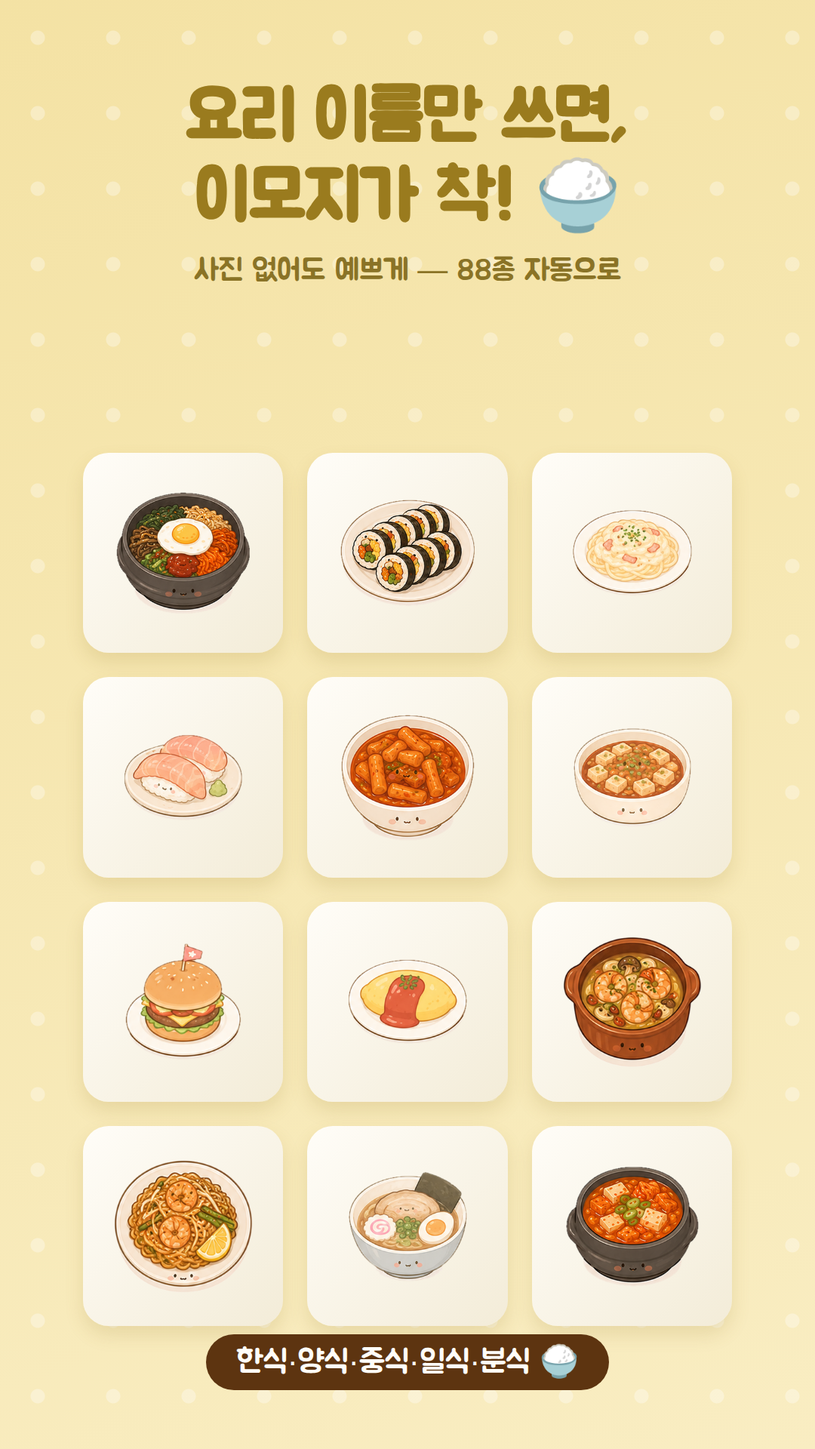
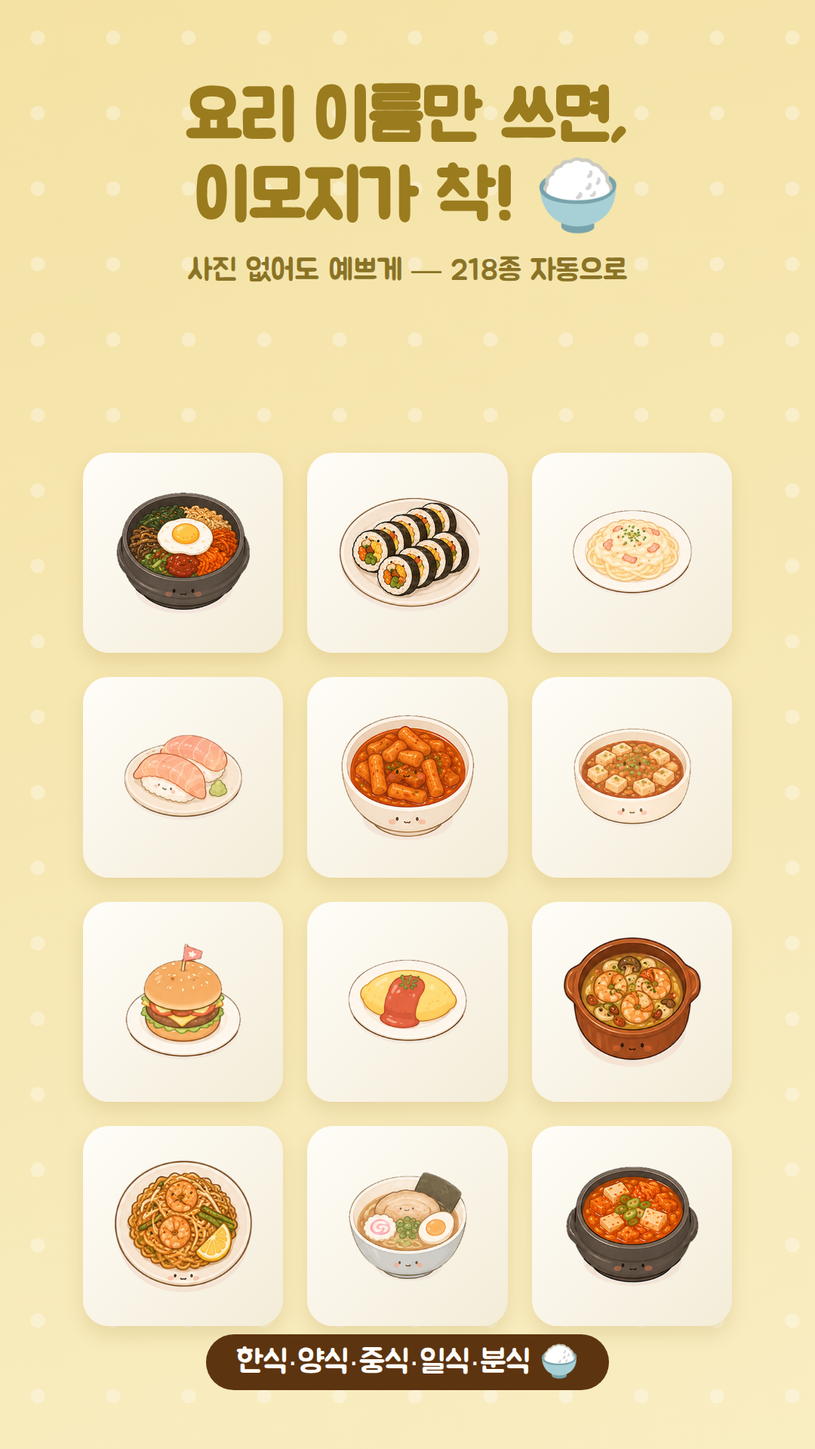
가져오기 정리 — 유튜브·인스타 링크 자동 읽기 제거, '준비 중'으로 정직하게 (v8.79)
창업자 제보: "유튜브 링크 복사 → 영어로 이상한 말만 복사됨. 숏츠·영상 다 같음",
"유튜브 → 링크공유 → 한끼, INBOX 저장만 됨".

원인: 유튜브 페이지는 자바스크립트로 그려지고 쿠키 동의 벽이 있어, 페이지 글자를
읽는 서비스(r.jina.ai)로는 영상 설명이 아니라 "Before you continue to YouTube…"
같은 영어 동의문이 온다. 그게 길이만 60자를 넘겨 그대로 재료·순서 칸에 박혔다.
제목만 가져오는 건 의미가 없다는 판단(창업자)에 따라 oEmbed도 쓰지 않는다.

- 유튜브 주소는 watch·youtu.be·shorts·live·embed·m. + si=·t=·list= 파라미터까지
  하나의 영상ID로 정리(youtubeId). "숏츠·영상 다 같음"의 원인이던 형태 차이 제거.
- 유튜브 링크는 아예 읽지 않는다(바깥 요청 0건) → 앱에선 "자동 정리 준비 중" 안내.
- 쿠키 동의·봇 검사·로그인 벽 글은 본문으로 인정하지 않는다(looksLikeJunk).
  껍데기 제목("YouTube"·"Just a moment…")도 거른다(looksLikeJunkTitle).
  블로그 링크가 동의문만 받아와도 재료칸에 영어가 안 박힌다.
- 공유받기: 링크를 받고도 읽지 않던 것을 블로그는 읽어 채우도록 연결.
  유튜브·인스타는 기다리게 하지 않고 바로가기로만 담는다.
- 문구 정정 — 안 되는 걸 된다고 적어두면 눌러보고 실망만 한다:
  · 가져오기 유튜브·인스타 = 자동 읽기 버튼 제거, "자동 정리 준비 중" 배지 + 안내
  · 홈 안내코치 "사진·인스타·유튜브에서 쏙" → "캡처·붙여넣기로 쏙"
  · AI 안내 "유튜브·블로그 링크" → "블로그 링크"(유튜브·인스타는 준비 중)
  · 스토어 등록물·기획노트·기능아카이브도 실제 동작에 맞춤
- 스토어 스크린샷 ④ "88종" → 실제 그림 아이콘 수 218종으로 재렌더.

검증: scripts/test-linkrules.mjs 신설(주소 정리 18케이스 + 쓰레기글·껍데기제목
거르기 + 유튜브 바깥요청 0건) → npm run smoke 앞단에 붙여 배포 게이트로.
가짜 네트워크로 가져오기·공유받기 흐름 재현: 동의문이 재료·순서로 안 들어감 확인.
SMOKE 통과, pageerror 0.

Claude-Session: https://claude.ai/code/session_01FxApkQkfqgWWNZhgiynRFA

Changed region(s): [[0.3972, 0.3438, 0.5806, 0.4375], [0.2444, 0.1562, 0.4889, 0.2188], [0.55, 0.1562, 0.7639, 0.2188]]

diff --git a/hankki/src/screens/ImportScreen.jsx b/hankki/src/screens/ImportScreen.jsx
@@ -14,10 +14,10 @@ import Portal from '../components/Portal'
 const OPTIONS = [
   // 제일 많이 쓰는 방법이라 맨 위
   { key: 'write', icon: 'photo', title: '사진 · 직접 작성하기', desc: '캡처는 재료·만드는 법 칸별로 읽어 채워요', color: '#8AA07A' },
-  { key: 'instagram', icon: 'instagram', title: 'Instagram', desc: '인스타그램 게시물 가져오기', color: '#C13584' },
-  { key: 'youtube', icon: 'youtube', title: 'YouTube', desc: '유튜브 영상 정보 가져오기', color: '#E33' },
+  { key: 'instagram', icon: 'instagram', title: 'Instagram', desc: '캡처해서 담기 (제일 정확)', color: '#C13584' },
+  { key: 'youtube', icon: 'youtube', title: 'YouTube', desc: '캡처·설명 붙여넣기로 담기', color: '#E33' },
   { key: 'text', icon: 'edit', title: '텍스트 붙여넣기', desc: '레시피 글을 붙여넣으면 자동 정리', color: '#B0895E' },
-  { key: 'link', icon: 'link', title: '링크 붙여넣기', desc: '웹사이트 주소를 붙여넣기', color: '#9B8B79' },
+  { key: 'link', icon: 'link', title: '링크 붙여넣기', desc: '블로그 글 읽어오기 · 바로가기 저장', color: '#9B8B79' },
 ]
 
 export default function ImportScreen() {
@@ -70,7 +70,8 @@ export default function ImportScreen() {
     nav.showToast('Inbox에 저장했어요 · 나중에 정리해요')
   }
 
-  // 링크 자동 읽기(베타) — 유튜브 설명·블로그 본문을 읽어 재료·순서까지 채운다.
+  // 링크 자동 읽기(베타) — 공개된 블로그 본문을 읽어 재료·순서까지 채운다.
+  // 유튜브·인스타는 읽지 않는다(로그인·동의 벽 → linkReader 에서 바로 null).
   // 아무리 오래 걸려도 25초 안에는 결과(또는 실패)를 돌려준다.
   const readLink = async () => {
     const u = url.trim()
@@ -224,7 +225,7 @@ export default function ImportScreen() {
           >
             <div style={{ flex: 1 }}>
               <div style={{ fontSize: 14, fontWeight: 600 }}>가져오기가 어렵다면?</div>
-              <div className="t-sub" style={{ marginTop: 3 }}>인스타·유튜브에서 한끼로 보내는 법 보기</div>
+              <div className="t-sub" style={{ marginTop: 3 }}>인스타·유튜브 레시피를 한끼로 옮기는 법 보기</div>
             </div>
             <div className="opt-ico" style={{ background: '#fff' }}>
               <Icon name="help" size={22} color="var(--sand)" />
@@ -261,7 +262,7 @@ export default function ImportScreen() {
           <div className="t-sub" style={{ marginTop: 6, marginBottom: 12, fontSize: 14 }}>
             {flow === 'instagram'
               ? '인스타는 캡션 글자를 복사할 수 없어요. 화면을 캡처해서 올리는 게 제일 정확해요.'
-              : '영상엔 글자가 없어요. 설명(더보기)을 붙여넣거나, 화면을 캡처해서 올려주세요.'}
+              : '영상엔 글자가 없어요. 설명(더보기)을 복사해 붙여넣거나, 화면을 캡처해서 올려주세요.'}
           </div>
 
           {/* 앱 바로 열기 — 링크 복사·캡처하러 갈 때 편하게 */}
@@ -311,18 +312,19 @@ export default function ImportScreen() {
             </div>
           </button>
 
-          {/* 3순위 — 링크 자동 읽기(베타) / 링크만 저장 */}
+          {/* 3순위 — 링크. 유튜브·인스타는 링크에서 레시피를 못 읽는다(둘 다 로그인·동의 벽).
+              예전엔 '자동으로 읽어오기' 버튼을 뒀다가 영어 안내문이 재료칸에 박혔다.
+              안 되는 걸 된다고 적으면 눌러보고 실망만 하니, 준비 중이라고 솔직히 적는다.
+              (창업자 2026-07-29 "제목만 가져오는 건 아무 의미가 없어") */}
           <div className="card" style={{ padding: 14, border: 'none' }}>
             <div style={{ display: 'flex', alignItems: 'center', gap: 6, fontSize: 13.5, fontWeight: 700, marginBottom: 8 }}>
-              <Icon name="link" size={16} color="var(--text)" stroke={1.8} /> 링크로 가져오기
+              <Icon name="link" size={16} color="var(--text)" stroke={1.8} /> 링크 저장
+              <span style={{ marginLeft: 'auto', fontSize: 11, fontWeight: 800, color: 'var(--text-sub)', background: 'var(--cream)', padding: '3px 9px', borderRadius: 999 }}>
+                자동 정리 준비 중
+              </span>
             </div>
-            <input value={url} onChange={(e) => setUrl(e.target.value)} placeholder={placeholderFor(flow)} inputMode="url" style={{ marginBottom: 8 }} />
-            <input value={title} onChange={(e) => setTitle(e.target.value)} placeholder="제목 (선택 · 비우면 자동)" style={{ marginBottom: 12 }} />
-            {flow === 'youtube' && (
-              <button className="btn-primary press" style={{ width: '100%', marginBottom: 8, opacity: url.trim() ? 1 : 0.5, display: 'inline-flex', alignItems: 'center', justifyContent: 'center', gap: 6 }} onClick={readLink} disabled={!url.trim() || linkBusy}>
-                {linkBusy ? '읽는 중…' : <><Icon name="sparkle" size={16} color="#fff" /> 설명란 자동으로 읽어오기 (베타)</>}
-              </button>
-            )}
+            <input value={url} onChange={(e) => setUrl(e.target.value)} placeholder={placeholderFor(flow)} inputMode="url" style={{ width: '100%', marginBottom: 8 }} />
+            <input value={title} onChange={(e) => setTitle(e.target.value)} placeholder="제목 (선택)" style={{ width: '100%', marginBottom: 12 }} />
             <button
               className="btn-ghost press"
               style={{ width: '100%', marginBottom: 8, display: 'inline-flex', alignItems: 'center', justifyContent: 'center', gap: 6 }}
@@ -338,12 +340,11 @@ export default function ImportScreen() {
             <button className="btn-ghost press" style={{ width: '100%' }} onClick={saveLink} disabled={!url.trim()}>
               링크만 Inbox에 저장 (바로가기)
             </button>
-            {flow === 'youtube' && (
-              <div className="t-sub" style={{ fontSize: 11.5, marginTop: 8, lineHeight: 1.5 }}>
-                <Icon name="alert" size={13} color="var(--sand)" style={{ verticalAlign: '-2px', marginRight: 3 }} />자동 읽기는 <b>영상 설명(더보기)에 레시피를 적어둔 영상만</b> 돼요.
-                설명에 없으면 <b>영상 보면서 직접 적기</b>나, 레시피 화면 <b>캡쳐 → 사진으로 가져오기</b>를 이용해 주세요.
-              </div>
-            )}
+            <div className="t-sub" style={{ fontSize: 11.5, marginTop: 8, lineHeight: 1.55 }}>
+              <Icon name="alert" size={13} color="var(--sand)" style={{ verticalAlign: '-2px', marginRight: 3 }} />
+              {flow === 'youtube' ? '유튜브(영상·숏츠)' : '인스타'} 링크에서 <b>재료·순서를 자동으로 가져오는 기능은 준비 중</b>이에요.
+              지금은 링크가 <b>바로가기(북마크)</b>로만 저장돼요. 내용까지 담으려면 위의 <b>캡처</b>나 <b>붙여넣기</b>를 써주세요.
+            </div>
           </div>
 
           <div className="t-sub" style={{ fontSize: 12, lineHeight: 1.6, marginTop: 14, textAlign: 'center' }}>
@@ -420,7 +421,7 @@ export default function ImportScreen() {
               <div className="card" style={{ padding: '4px 2px', background: 'var(--cream)', border: 'none' }}>
                 {[
                   ['camera', '캡처 사진 인식', '레시피 화면을 캡처만 하면 재료·순서를 칸칸이 자동으로 채워요.'],
-                  ['link', '유튜브·블로그 링크 (베타)', '링크를 붙여넣으면 글·설명을 읽어 정리해요. 공개된 글만 돼요.'],
+                  ['link', '블로그 링크 (베타)', '공개된 블로그 글은 붙여넣으면 읽어서 정리해요. 유튜브·인스타는 준비 중이에요.'],
                   ['clock', '옮겨적기 끝', '손으로 하나하나 타이핑할 필요 없이 몇 초면 완성.'],
                   ['pen', '언제든 손보기', 'AI가 정리한 결과는 마음대로 고치고 다듬을 수 있어요.'],
                 ].map(([ic, t, b]) => (

diff --git a/hankki/src/linkReader.js b/hankki/src/linkReader.js
@@ -12,6 +12,78 @@ function fetchWithTimeout(url, opts = {}) {
   return fetch(url, { ...opts, signal: ctrl.signal }).finally(() => clearTimeout(t))
 }
 
+// ── 유튜브 주소 ─────────────────────────────────────────────────────────
+// watch?v= · youtu.be/ · /shorts/ · /live/ · /embed/ · m.youtube.com · 뒤에 붙는
+// si=·t=·list= 같은 파라미터까지 전부 같은 영상ID로 정리한다.
+// (창업자 제보 "숏츠, 영상 다 같음" — 형태가 달라도 결과가 똑같이 이상했다)
+export function youtubeId(raw = '') {
+  const s = String(raw).trim()
+  if (!s) return ''
+  let u
+  try {
+    u = new URL(/^https?:\/\//i.test(s) ? s : 'https://' + s)
+  } catch {
+    return ''
+  }
+  const host = u.hostname.replace(/^(www|m)\./, '')
+  const ok = (id) => (/^[\w-]{8,20}$/.test(id || '') ? id : '')
+  if (host === 'youtu.be') return ok(u.pathname.slice(1).split('/')[0])
+  if (host !== 'youtube.com' && host !== 'youtube-nocookie.com') return ''
+  if (u.pathname === '/watch') return ok(u.searchParams.get('v'))
+  const m = u.pathname.match(/^\/(?:shorts|live|embed|v)\/([^/?#]+)/)
+  return m ? ok(m[1]) : ''
+}
+
+export function isYouTube(url) {
+  return !!youtubeId(url)
+}
+
+// ── 본문이 아닌 글 걸러내기 ─────────────────────────────────────────────
+// 쿠키 동의·로그인 벽·봇 검사 페이지는 글자 수만 많고 내용은 없다. 예전엔 길이만 보고
+// 통과시켜서 "Before you continue to YouTube…" 같은 영어 안내문이 그대로 재료·순서
+// 칸에 박혔다(창업자 제보 "영어로 이상한 말만 복사됨").
+const JUNK_MARKS = [
+  'before you continue',
+  'we use cookies',
+  'cookies and data to',
+  'sign in to confirm',
+  'accept all',
+  'reject all',
+  'enable javascript',
+  'javascript is disabled',
+  'verify you are human',
+  'just a moment',
+  'checking your browser',
+  'access denied',
+  'captcha',
+  '자동 등록 방지',
+  '로그인이 필요',
+]
+export function looksLikeJunk(text = '') {
+  const t = String(text)
+  if (!t.trim()) return true
+  const low = t.toLowerCase()
+  if (JUNK_MARKS.some((k) => low.includes(k))) return true
+  // 한글이 거의 없는 글은, 레시피 낱말이라도 있어야 본문으로 인정한다.
+  // (영어 레시피 블로그는 ingredients·tbsp 같은 낱말로 통과된다)
+  const hangul = (t.match(/[가-힣]/g) || []).length
+  if (hangul < t.length * 0.02) {
+    return !/(ingredient|instruction|direction|recipe|preheat|tbsp|tsp|\bcups?\b|minutes)/i.test(t)
+  }
+  return false
+}
+
+// 제목도 같이 걸러야 한다. 동의문 페이지의 제목은 "YouTube"·"Just a moment…" 같은 껍데기라
+// 그대로 저장하면 Inbox에 "YouTube"라는 레시피가 쌓인다(실제로 그렇게 저장됐다).
+const JUNK_TITLES = ['youtube', 'instagram', 'error', 'sign in', 'log in', '로그인', 'redirecting']
+export function looksLikeJunkTitle(t = '') {
+  const s = String(t).trim()
+  if (!s) return true
+  const low = s.toLowerCase().replace(/[.…\s]+$/, '')
+  if (JUNK_TITLES.includes(low)) return true
+  return JUNK_MARKS.some((k) => low.includes(k)) || /^just a moment|^attention required/.test(low)
+}
+
 // 네이버 블로그는 본문이 iframe 안에 있어 원 주소로는 읽기 어렵다.
 // blog.naver.com/아이디/글번호 → 본문이 바로 나오는 PostView·모바일 주소로 바꿔 시도한다.
 function candidateUrls(raw) {
@@ -41,6 +113,12 @@ function parseJina(text) {
 }
 
 export async function fetchLinkRecipe(rawUrl) {
+  // 유튜브는 읽지 않는다. 페이지가 자바스크립트로 그려지고 동의 벽이 있어 읽기 서비스로는
+  // 영상 설명이 아니라 영어 안내문만 온다(창업자 제보 "영어로 이상한 말만 복사됨").
+  // 제목만 가져오는 건 의미가 없다고 판단해(창업자 2026-07-29) oEmbed도 쓰지 않는다.
+  // 제대로 하려면 서버 + YouTube Data API 가 필요 → 앱에선 '준비 중'으로 안내한다.
+  if (isYouTube(rawUrl)) return null
+
   const urls = candidateUrls(rawUrl)
   let titleOnly = ''
 
@@ -53,10 +131,10 @@ export async function fetchLinkRecipe(rawUrl) {
       if (!res.ok) continue
       const raw = await res.text()
       const { title, body } = parseJina(raw)
-      if (body && body.replace(/\s/g, '').length > 60) {
+      if (body && body.replace(/\s/g, '').length > 60 && !looksLikeJunk(body)) {
         return { title, text: body, full: true }
       }
-      if (title && !titleOnly) titleOnly = title
+      if (title && !titleOnly && !looksLikeJunkTitle(title)) titleOnly = title
     } catch {
       /* 다음 후보로 */
     }
@@ -77,8 +155,8 @@ export async function fetchLinkRecipe(rawUrl) {
         doc.body
       const text = (el?.textContent || '').replace(/\n{3,}/g, '\n\n').trim()
       const title = (doc.querySelector('.se-title-text')?.textContent || doc.title || '').trim()
-      if (text.replace(/\s/g, '').length > 80) return { title, text, full: true }
-      if (title && !titleOnly) titleOnly = title
+      if (text.replace(/\s/g, '').length > 80 && !looksLikeJunk(text)) return { title, text, full: true }
+      if (title && !titleOnly && !looksLikeJunkTitle(title)) titleOnly = title
     } catch {
       /* 다음 후보로 */
     }
@@ -89,7 +167,7 @@ export async function fetchLinkRecipe(rawUrl) {
     const res = await fetchWithTimeout('https://noembed.com/embed?url=' + encodeURIComponent(rawUrl))
     if (res.ok) {
       const j = await res.json()
-      if (j && j.title && !j.error) return { title: String(j.title), text: '', full: false }
+      if (j && j.title && !j.error && !looksLikeJunkTitle(j.title)) return { title: String(j.title).trim(), text: '', full: false }
     }
   } catch {
     /* noop */

diff --git a/hankki/src/App.jsx b/hankki/src/App.jsx
@@ -4,6 +4,7 @@ import { consumeSharedIntake, detectSource, firstUrl, captionFrom, firstLine } f
 import { makeInboxRecipe } from './screens/ImportScreen'
 import { ocrImage } from './ocr'
 import { parseRecipeText } from './parseRecipe'
+import { fetchLinkRecipe } from './linkReader'
 import { guessCategory } from './utils'
 import BottomNav from './components/BottomNav'
 import TimerBar from './components/TimerBar'
@@ -259,7 +260,11 @@ export default function App() {
       // 소비해 다음 back 이 앱 종료로 샜다. (공유로 앱을 처음 열었을 때 경로)
       try { history.pushState({ hankki: 1 }, '') } catch { /* noop */ }
       showToast(
-        data.imageDataUrl ? '사진을 담았어요 · 글자 읽는 중…' : '공유한 레시피를 Inbox에 담았어요'
+        data.imageDataUrl
+          ? '사진을 담았어요 · 글자 읽는 중…'
+          : link && source !== 'youtube' && source !== 'instagram'
+            ? '공유한 링크를 담았어요 · 읽는 중…'
+            : '공유한 레시피를 Inbox에 담았어요'
       )
       if (typeof history !== 'undefined' && location.search) {
         history.replaceState({ hankki: 1 }, '', location.pathname) // URL 만 정리, 트랩 표식은 유지
@@ -276,7 +281,43 @@ export default function App() {
           category: guessCategory((r.title || '') + ' ' + r.memo),
         })
         showToast('사진에서 글자를 읽어 채웠어요')
+        return
       }
+
+      // 공유로 들어온 링크는 예전엔 주소만 Inbox에 눕혀두고 끝이었다
+      // (창업자 제보 "유튜브 → 링크공유 → 한끼, INBOX 저장만 됨").
+      // 이제 붙여넣기 흐름과 똑같이 읽어서 제목·재료·순서까지 채운다.
+      // 유튜브·인스타는 읽어봐야 안 되는 게 확실하니(로그인·동의 벽) 기다리게 하지 않는다 —
+      // 링크는 바로가기로 담기고 끝. 자동 정리는 '준비 중'으로 안내한다.
+      if (!link || source === 'youtube' || source === 'instagram') return
+      if (parsed && (parsed.ingredients.length || parsed.steps.length)) return
+      const read = await Promise.race([
+        fetchLinkRecipe(link).catch(() => null),
+        new Promise((res) => setTimeout(() => res(null), 25000)),
+      ])
+      if (cancelled || !read) {
+        showToast('링크는 담았어요 · 내용은 자동으로 읽지 못했어요')
+        return
+      }
+      const patch = {}
+      // 읽어온 제목을 우선한다. 이 레코드는 방금 자동으로 만들어진 것이라 사용자가 앱 안에서
+      // 적은 글자가 없다 — 임시 제목은 공유 문구 첫 줄("이거 봐봐" 같은 인사말)일 때가 많아서
+      // 영상·글의 실제 제목이 훨씬 낫다. 쓰레기 제목은 linkReader 쪽에서 이미 걸러져 온다.
+      if (read.title) patch.title = read.title
+      if (read.full && read.text) {
+        const p = parseRecipeText(read.text, { fromOcr: true })
+        if (p.ingredients.length) patch.ingredients = p.ingredients
+        if (p.steps.length) patch.steps = p.steps
+        if (!patch.title && p.title) patch.title = p.title
+      }
+      if (patch.title === title) delete patch.title
+      if (!Object.keys(patch).length) return
+      store.updateRecipe(rec.id, patch)
+      showToast(
+        patch.ingredients || patch.steps
+          ? '링크에서 레시피를 읽어 채웠어요'
+          : '영상 제목을 채웠어요 · 설명은 붙여넣어 주세요'
+      )
     })
     return () => {
       cancelled = true

diff --git a/hankki/src/screens/HomeScreen.jsx b/hankki/src/screens/HomeScreen.jsx
@@ -22,7 +22,7 @@ import { needsOnboarding } from '../components/Onboarding'
 // 첫 스텝을 '되는 기능'(가져오기·오늘 뭐 해먹지)으로, 곧 출시 미리보기는 맨 뒤에 살짝.
 const HOME_COACH_KEY = 'hankki:coach:home2' // 2026-07-26: 장보기·레꾸자랑 탭 안내 추가하며 키 올림(기존 테스터도 개선된 가이드 1회 노출)
 const HOME_COACH_STEPS = [
-  { sel: '[data-coach="import"]', img: uiHandPoint, label: '레시피 가져오기', desc: '사진·인스타·유튜브에서 레시피를 쏙 담아요 · 여기서 시작!' },
+  { sel: '[data-coach="import"]', img: uiHandPoint, label: '레시피 가져오기', desc: '캡처·붙여넣기로 레시피를 쏙 담아요 · 여기서 시작!' },
   { sel: '[data-coach="today"]', img: uiGomThumb, label: '오늘 뭐 해먹지?', desc: '냉장고 재료로 만들 수 있는 요리를 추천해요' },
   { sel: '[data-coach="nav-shop"]', img: uiGomShop, label: '장보기 · 쇼핑몰', desc: '18년차 주부가 엄선한 식재료를 담아 바로 사러 가고 · 냉장고 유통기한도 챙겨요' },
   { sel: '[data-coach="nav-brag"]', img: uiGomHeart, label: '레꾸자랑', desc: '내가 꾸민 레시피를 예쁜 카드로 친구한테 자랑! 카톡·인스타로 쏙' },

diff --git a/hankki/src/version.js b/hankki/src/version.js
@@ -1,7 +1,7 @@
 // 앱 버전 — 배포마다 숫자를 올린다. 설정 화면 맨 아래에 표시되고,
 // 새 버전으로 업데이트되면(서비스워커 교체 → 새로고침) 안내 토스트를 띄우는 기준이 된다.
 // 사용자가 "지금 몇 버전이야?"를 바로 확인해 알려줄 수 있어, 캐시 문제 진단에도 쓴다.
-export const APP_VERSION = 'v8.78'
+export const APP_VERSION = 'v8.79'
 export const APP_TAGLINE = '꼬르곰·펭펭과 레꾸해요'
 
 // 익명 의견 보내기 채널 — 로그인 없이 익명으로 받는 구글 폼(또는 Tally) 링크.

diff --git a/hankki/docs/기능-아카이브.md b/hankki/docs/기능-아카이브.md
@@ -56,7 +56,7 @@
 - **재료/만드는 법 각 칸 개별 사진** _(v1.5)_: 각 칸의 📷 버튼으로 그 사진을 **지정한 칸에만** 채움. 여러 번 누르면 **여러 장(2~3장)** 이어붙임 → 2단 레이아웃·긴 레시피 대응.
 - **사진 자르기(CropSheet)**: OCR 전에 광고·그림 빼고 글자 부분만 선택. 모서리 드래그. 상황별 안내(레시피/영수증/일지).
 - **공유받기(Web Share Target)**: 인스타·갤러리 등에서 "공유 → 한끼"로 링크·사진·캡션을 받아 Inbox에 저장. 캡션에 레시피가 있으면 파싱.
-- **링크 자동 읽기**: 유튜브·블로그 링크의 제목/설명 가져오기.
+- **링크 자동 읽기(베타)**: 공개 블로그 본문만 읽어 정리. 유튜브·인스타는 로그인·동의 벽이라 읽지 못함 → 앱에선 "자동 정리 준비 중"으로 안내(2026-07-29). 제대로 하려면 서버 + YouTube Data API 필요.
 - **보면서 쓰기**: 유튜브 영상·인스타 미리보기·캡처 원본을 화면 위에 고정하고 아래에서 받아적기. (인스타로 이탈 안 되게 iframe sandbox 제한)
 - **Inbox(미분류함)**: 공유·사진으로 급히 담은 레시피 임시 보관 → 나중에 정리.
 - **출처 배지(SourceBadge)**: 인스타/유튜브/링크/사진/직접작성 표시.

diff --git a/hankki/design/promo/스토어스샷-2507/README.md b/hankki/design/promo/스토어스샷-2507/README.md
@@ -8,7 +8,7 @@ Play Store 폰 스크린샷 (1080×1920, static PNG). 순서대로 업로드.
 | ① | 히어로 | 내 레시피, 예쁘게 꾸며요 | gp_gomft | 엄마표 김밥 |
 | ② | 레꾸 | 레시피 정리? 우린 레시피 레꾸해요 | gp_pengv | 연어 포케볼 |
 | ③ | 인스타 공유 | 예쁜 카드 한 장으로, 센스있게 레시피 공유 | gp_gomtb·duoht | 감바스 알 아히요 |
-| ④ | 음식 아이콘 | 요리 이름만 쓰면, 이모지가 착! | — | (아이콘 88종 미리보기) |
+| ④ | 음식 아이콘 | 요리 이름만 쓰면, 이모지가 착! | — | (아이콘 218종 미리보기) |
 | ⑤ | 장보기 | 재료, 한 번에 사러가기 | **곰펭 장보기 콤비**(신규) | 김치찌개 재료 |
 | ⑥ | 큐레이션 | 아무거나 말고, 써본 것만 나눠요 | **냉면 먹는 곰펭**(신규) | 보리면·대파소금·쯔유 |
 | ⑦ | 감정 | 오늘도 한 끼, 해냈어요 | **하트 안은 곰**(신규) | (감정 레시피북) |

diff --git a/hankki/docs/기획-노트.md b/hankki/docs/기획-노트.md
@@ -63,7 +63,7 @@
 ## 이 타겟이 앱과 잘 맞는 이유
 1. **파워J·정리덕후는 이탈률이 낮다** — 시스템 유지를 즐기는 사람들 (노션·굿노트처럼)
 2. **꾸미기 = 다꾸·노션꾸미기 문화와 동일 감성** → 이 타겟에 정확히 꽂힘
-3. **2030 디지털 세대** → 인스타·유튜브 가져오기가 핵심 기능이 되고, 예쁜 카드 공유가 바이럴로 이어짐
+3. **2030 디지털 세대** → 인스타·유튜브 레시피를 캡처·붙여넣기로 옮겨 담는 게 핵심이 되고, 예쁜 카드 공유가 바이럴로 이어짐 (⚠ 링크 자동 가져오기는 미지원 = 준비 중, 2026-07-29)
 
 ## 성장·바이럴 (현실적으로)
 - ⭐ **꾸미기 카드 공유 루프** — 예쁜 레시피 표지를 카톡·인스타에 자랑 → 워터마크+링크가 곧 광고

diff --git a/hankki/docs/스토어-등록물.md b/hankki/docs/스토어-등록물.md
@@ -34,7 +34,8 @@
 ■ 한끼의 주요 기능
 
 📒 나만의 레시피북
-· 직접 쓰기, 사진 속 글자 읽기(OCR), 링크·캡션으로 레시피를 손쉽게 등록
+· 직접 쓰기, 사진 속 글자 읽기(OCR), 글 붙여넣기로 레시피를 손쉽게 등록
+· 링크는 바로가기(북마크)로 저장 — 유튜브·인스타 자동 정리는 준비 중이에요
 · 귀여운 아바타·이모지·글자 타일·스티커로 내 맘대로 꾸미기
 
 🧊 냉장고 재료함
